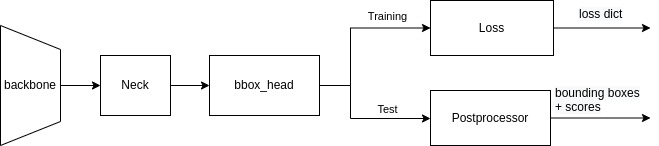
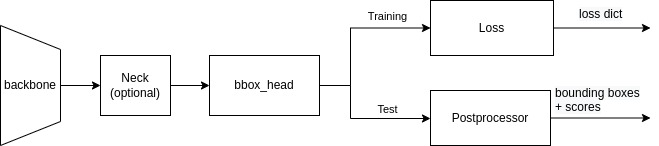
update pictures and add kie

Changed region(s): [[0.1517, 0.4932, 0.2428, 0.6849]]

diff --git a/docs/en/model_summary.md b/docs/en/model_summary.md
@@ -2,7 +2,7 @@
 
 MMOCR has implemented many models that support various tasks. Depending on the type of tasks, these models have different architectural designs and, therefore, might be a bit confusing for beginners to master. We release a primary design doc to clearly illustrate the basic task-specific architectures and provide quick pointers to docstrings of model components to aid users' understanding.
 
-## Text Detection Architecture
+## Text Detection Models
 
 <div align="center">
     <img src="https://raw.githubusercontent.com/open-mmlab/mmocr/main/resources/textdet.jpg"/><br>
@@ -65,7 +65,7 @@ We use the same architecture as in MMDetection. See MMDetection's [config docume
 - Loss: [TextSnakeLoss](https://mmocr.readthedocs.io/en/latest/api.html#mmocr.models.textdet.losses.TextSnakeLoss)
 - Postprocessor: [TextSnakePostprocessor](https://mmocr.readthedocs.io/en/latest/api.html#mmocr.models.textdet.postprocess.TextSnakePostprocessor)
 
-## Text Recognition Architecture
+## Text Recognition Models
 
 **Most of** the implemented recognizers use the following architecture:
 
@@ -157,3 +157,22 @@ Fuser fuses the feature output from encoder and decoder before generating the fi
 :::{note}
 SegOCR's architecture is an exception - it is closer to text detection models.
 :::
+
+## Key Information Extraction Models
+
+<div align="center">
+    <img src="https://raw.githubusercontent.com/open-mmlab/mmocr/main/resources/kie.jpg"/><br>
+</div>
+<br>
+
+The architecture of key information extraction (KIE) models is similar to text detection models, except for the extra feature extractor. As a downstream task of OCR, KIE models are required to run with bounding box annotations indicating the locations of text instances, from which an ROI extractor extracts the cropped features for `bbox_head` to discover relations among them.
+
+The output containing edges and nodes information from `bbox_head` is sufficient for test and inference. Computation of loss also relies on such information.
+
+### SDMGR
+
+- Backbone: [UNet](https://mmocr.readthedocs.io/en/latest/api.html#mmocr.models.common.backbones.UNet)
+- Neck: None
+- Extractor: [mmdet.SingleRoIExtractor](https://mmdetection.readthedocs.io/en/latest/api.html#mmdet.models.roi_heads.SingleRoIExtractor)
+- Bbox_head: [SDMGRHead](https://mmocr.readthedocs.io/en/latest/api.html#mmocr.models.kie.heads.SDMGRHead)
+- Loss: [SDMGRLoss](https://mmocr.readthedocs.io/en/latest/api.html#mmocr.models.kie.losses.SDMGRLoss)
